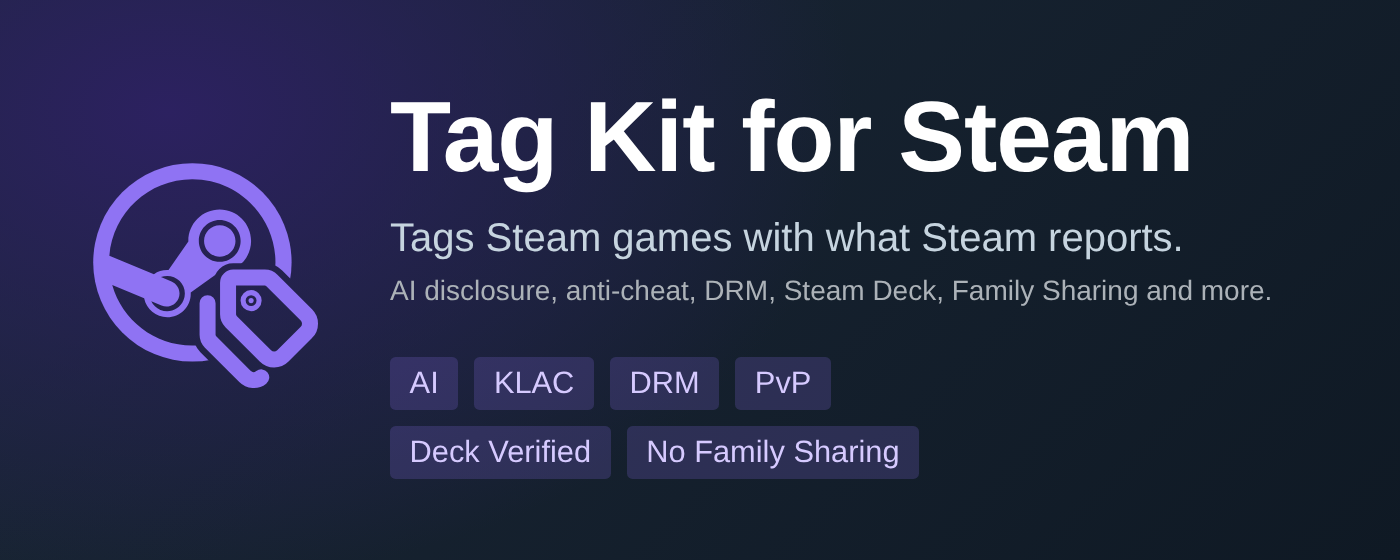
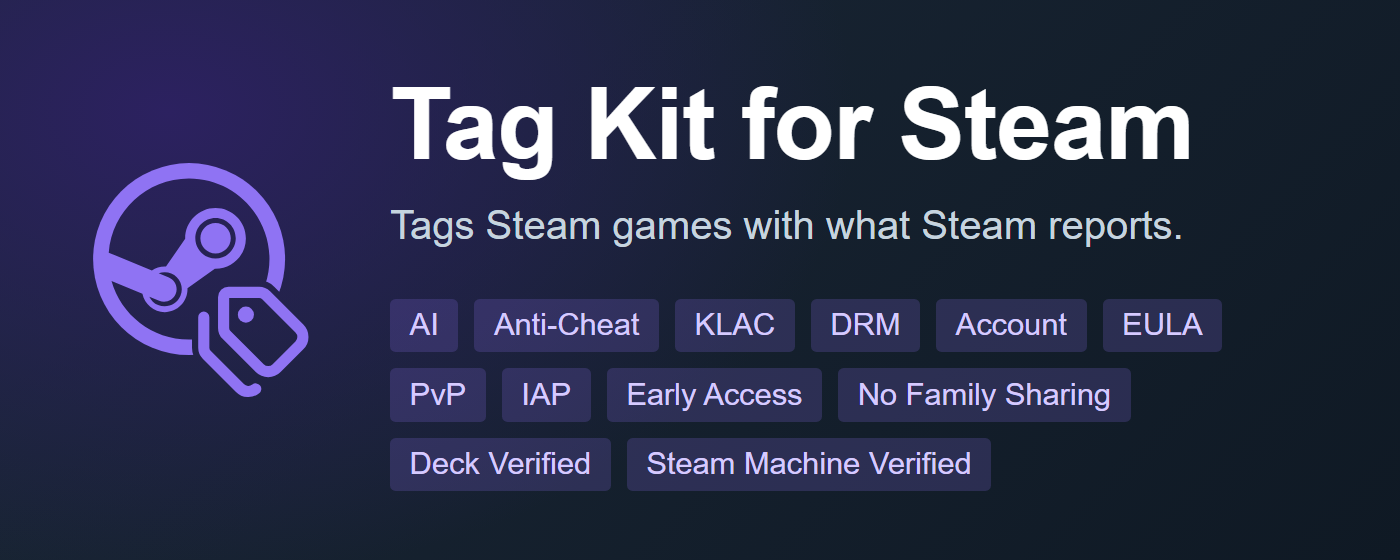
docs(store): show a chip for every tag on the marquee and social preview
Chip text follows the English catalog: AI, Anti-Cheat, KLAC, DRM, Account, EULA, PvP, IAP, Early Access, No Family Sharing, Deck Verified and Steam Machine Verified.

The partial list under the tagline goes, since the chips now name every tag.

diff --git a/docs/store/assets/marquee.html b/docs/store/assets/marquee.html
@@ -30,16 +30,23 @@
       <div class="copy">
         <div class="title">Tag Kit for Steam</div>
         <p class="tagline">Tags Steam games with what Steam reports.</p>
-        <p class="more">AI disclosure, anti-cheat, DRM, Steam Deck, Family Sharing and more.</p>
         <div class="chips">
           <span class="chip">AI</span>
+          <span class="chip">Anti-Cheat</span>
           <span class="chip">KLAC</span>
           <span class="chip">DRM</span>
+          <span class="chip">Account</span>
+          <span class="chip">EULA</span>
+        </div>
+        <div class="chips next">
           <span class="chip">PvP</span>
+          <span class="chip">IAP</span>
+          <span class="chip">Early Access</span>
+          <span class="chip">No Family Sharing</span>
         </div>
         <div class="chips next">
           <span class="chip">Deck Verified</span>
-          <span class="chip">No Family Sharing</span>
+          <span class="chip">Steam Machine Verified</span>
         </div>
       </div>
     </div>

diff --git a/docs/store/assets/social-preview.html b/docs/store/assets/social-preview.html
@@ -30,16 +30,23 @@
       <div class="copy">
         <div class="title">Tag Kit for Steam</div>
         <p class="tagline">Tags Steam games with what Steam reports.</p>
-        <p class="more">AI disclosure, anti-cheat, DRM, Steam Deck, Family Sharing and more.</p>
         <div class="chips">
           <span class="chip">AI</span>
+          <span class="chip">Anti-Cheat</span>
           <span class="chip">KLAC</span>
           <span class="chip">DRM</span>
+          <span class="chip">Account</span>
+          <span class="chip">EULA</span>
+        </div>
+        <div class="chips next">
           <span class="chip">PvP</span>
+          <span class="chip">IAP</span>
+          <span class="chip">Early Access</span>
+          <span class="chip">No Family Sharing</span>
         </div>
         <div class="chips next">
           <span class="chip">Deck Verified</span>
-          <span class="chip">No Family Sharing</span>
+          <span class="chip">Steam Machine Verified</span>
         </div>
       </div>
     </div>
